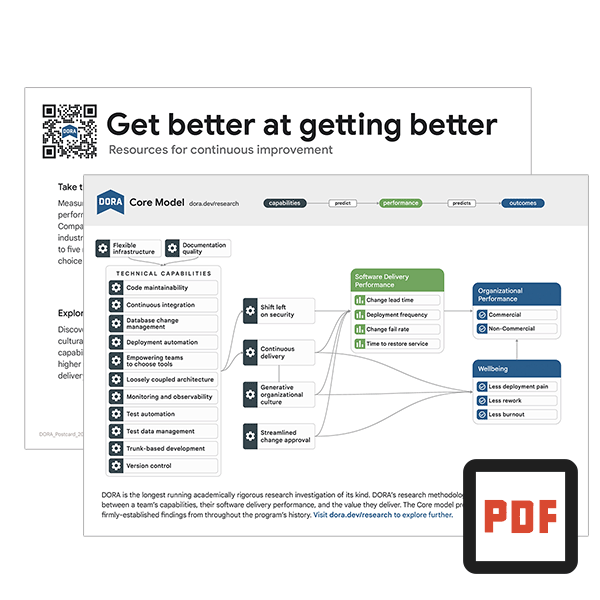
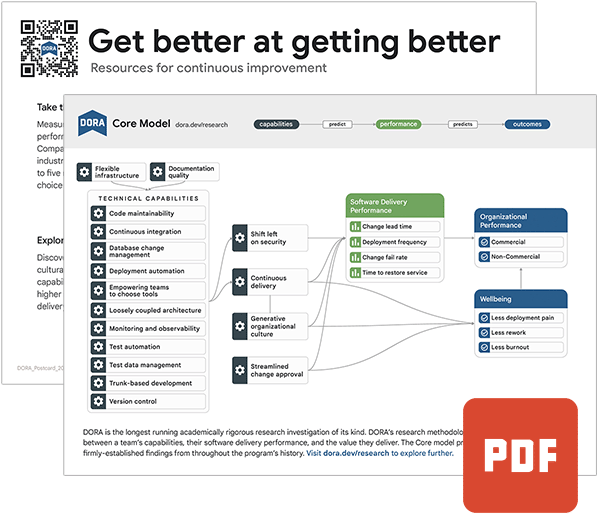
style tweaks

Changed region(s): [[0.03, 0.0309, 1.0, 1.0], [0.87, 0.0, 0.9, 0.0309], [0.0, 0.0, 0.03, 0.0309]]

diff --git a/hugo/assets/scss/grid.scss b/hugo/assets/scss/grid.scss
@@ -27,14 +27,14 @@ grid {
         content {
             display: flex;
             flex-direction: row;
-            align-items: center;
+            align-items: stretch;
 
             p {
-                padding:1rem;
+                padding:.5rem;
             }
 
             img {
-                margin:1rem;
+                margin:.5rem;
 
                 &.stroke {
                     border:1px solid $border-light;
